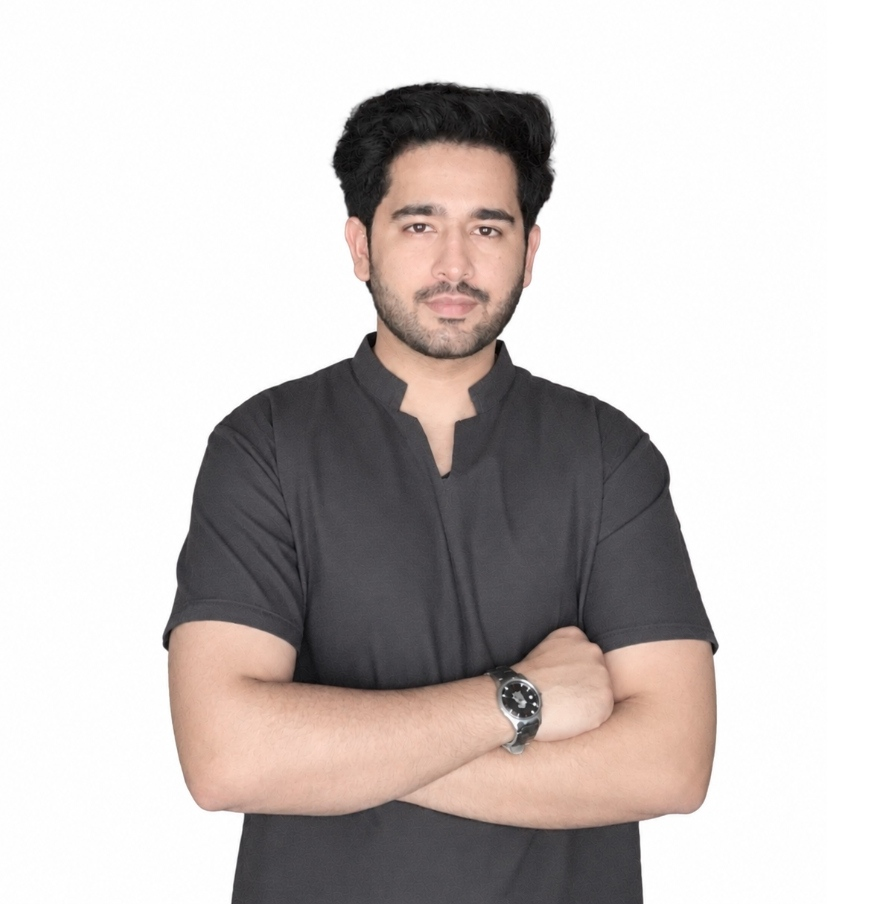
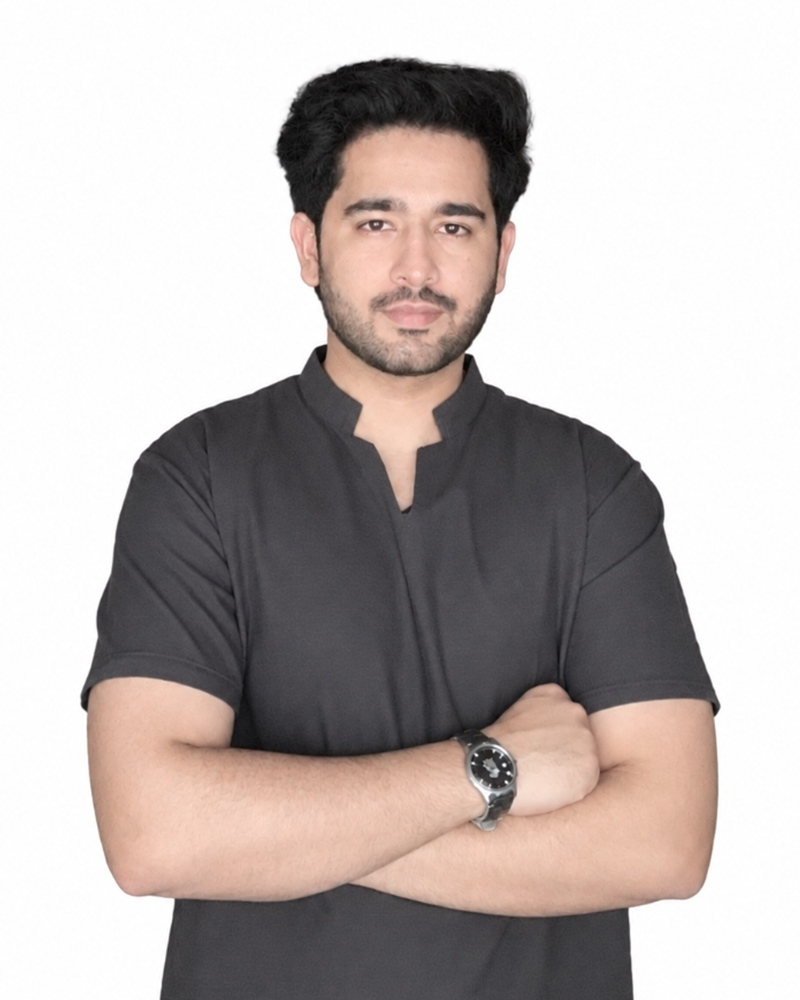
fix(hero): 1.15x zoom photo, balance desktop grid spacing, move card glow to right side

diff --git a/index.html b/index.html
@@ -83,7 +83,7 @@
 <link rel="icon" type="image/svg+xml" href="assets/images/favicon.svg?v=3.1">
 <link rel="apple-touch-icon" sizes="180x180" href="assets/images/apple-touch-icon.png?v=3.1">
 <link rel="shortcut icon" href="favicon.ico?v=3.1">
-<link rel="stylesheet" href="assets/css/style.css?v=2.2.1">
+<link rel="stylesheet" href="assets/css/style.css?v=2.2.2">
 <style>
 /* Hero Buttons Premium Styling & Hover Glow/Zoom */
 .btn-hero-work{background:linear-gradient(135deg,#0d7377,#13979c);color:#ffffff !important;box-shadow:0 4px 15px rgba(13,115,119,0.28);border:none;font-weight:600;transition:transform .35s cubic-bezier(0.4,0,0.2,1),box-shadow .35s cubic-bezier(0.4,0,0.2,1),background .35s ease}
@@ -94,7 +94,7 @@
 .btn-hero-contact:active{transform:translateY(0)}
 
 /* Hero Picture Seamless Blend & Shorter Frame */
-.hero-photo{border:none;background:radial-gradient(circle at 15% 85%, rgba(13,115,119,0.08) 0%, rgba(13,115,119,0.02) 45%, transparent 65%);box-shadow:none;transition:transform .4s cubic-bezier(0.4,0,0.2,1);cursor:pointer}
+.hero-photo{border:none;background:radial-gradient(circle at 85% 85%, rgba(13,115,119,0.08) 0%, rgba(13,115,119,0.02) 45%, transparent 65%);box-shadow:none;transition:transform .4s cubic-bezier(0.4,0,0.2,1);cursor:pointer}
 .hero-photo img{mix-blend-mode:multiply;object-position:center top;filter:brightness(1.07) contrast(1.02);transition:transform .5s cubic-bezier(0.25,1,0.5,1);transform-origin:center 20%}
 .hero-photo:hover{transform:translateY(-2px)}
 .hero-photo:hover img{transform:scale(1.03)}
@@ -240,7 +240,7 @@
         </div>
       </div>
       <div class="hero-photo">
-        <img src="assets/images/about-photo.jpg?v=5" alt="Yahya - Financial Analyst" id="heroProfileImg" fetchpriority="high">
+        <img src="assets/images/about-photo.jpg?v=6" alt="Yahya - Financial Analyst" id="heroProfileImg" fetchpriority="high">
       </div>
     </div>
   </div>

diff --git a/assets/css/style.css b/assets/css/style.css
@@ -39,9 +39,9 @@ h2{font-size:clamp(1.35rem,2.4vw,1.85rem);font-weight:700;line-height:1.2;letter
 h3{font-size:1.05rem;font-weight:600;margin-bottom:0.4rem;letter-spacing:-0.01em}
 p{color:var(--text-secondary);font-size:0.95rem;line-height:1.7}
 .accent-text{color:var(--accent)}
-.hero{max-width:640px;padding:3rem 0 2rem}
-.hero-grid{display:grid;grid-template-columns:1fr 250px;gap:3rem;align-items:center;padding:3rem 0 2rem}
-.hero-photo{width:100%;aspect-ratio:4/5;border-radius:var(--radius);overflow:hidden;position:relative;display:flex;align-items:center;justify-content:center;border:none;background:radial-gradient(circle at 15% 85%, rgba(13,115,119,0.08) 0%, rgba(13,115,119,0.02) 45%, transparent 65%);box-shadow:none;transition:transform .4s cubic-bezier(0.4,0,0.2,1);cursor:pointer}
+.hero{max-width:600px;padding:3rem 0 2rem}
+.hero-grid{display:grid;grid-template-columns:1fr 270px;gap:2.5rem;align-items:center;padding:3rem 0 2rem;max-width:1040px}
+.hero-photo{width:100%;aspect-ratio:4/5;border-radius:var(--radius);overflow:hidden;position:relative;display:flex;align-items:center;justify-content:center;border:none;background:radial-gradient(circle at 85% 85%, rgba(13,115,119,0.08) 0%, rgba(13,115,119,0.02) 45%, transparent 65%);box-shadow:none;transition:transform .4s cubic-bezier(0.4,0,0.2,1);cursor:pointer}
 .hero-photo img{width:100%;height:100%;object-fit:cover;object-position:center top;position:absolute;inset:0;mix-blend-mode:multiply;filter:brightness(1.07) contrast(1.02);transition:transform .5s cubic-bezier(0.25,1,0.5,1);transform-origin:center 20%}
 .hero-photo:hover{transform:translateY(-2px)}
 .hero-photo:hover img{transform:scale(1.03)}
